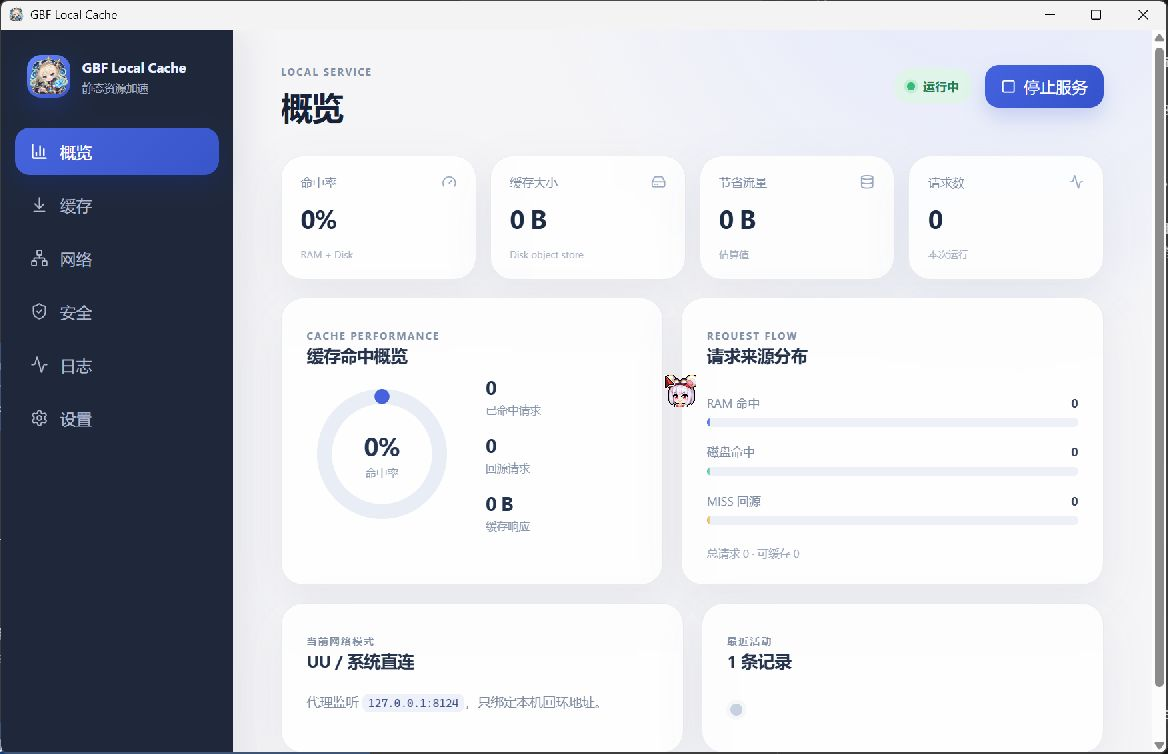
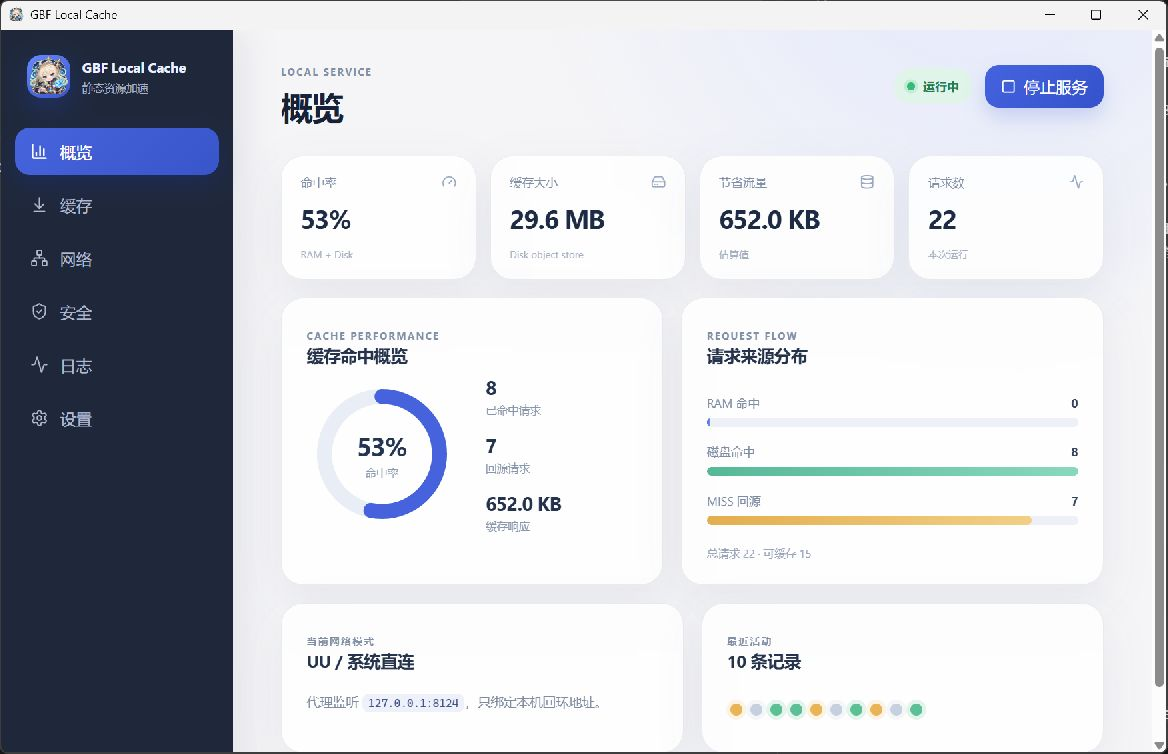
feat: publish GBF local cache application

diff --git a/README.md b/README.md
@@ -47,6 +47,17 @@
 <p align="center">
   <img src="docs/screenshots/overview.png" width="90%" alt="GBF Local Cache 总览">
 </p>
+<p align="center">
+  <img src="docs/screenshots/cache.png" width="49%" alt="缓存管理">
+  <img src="docs/screenshots/network.png" width="49%" alt="网络出口">
+</p>
+<p align="center">
+  <img src="docs/screenshots/security.png" width="49%" alt="安全边界">
+  <img src="docs/screenshots/logs.png" width="49%" alt="实时日志">
+</p>
+<p align="center">
+  <img src="docs/screenshots/settings.png" width="49%" alt="应用设置">
+</p>
 
 ## 构建
 
